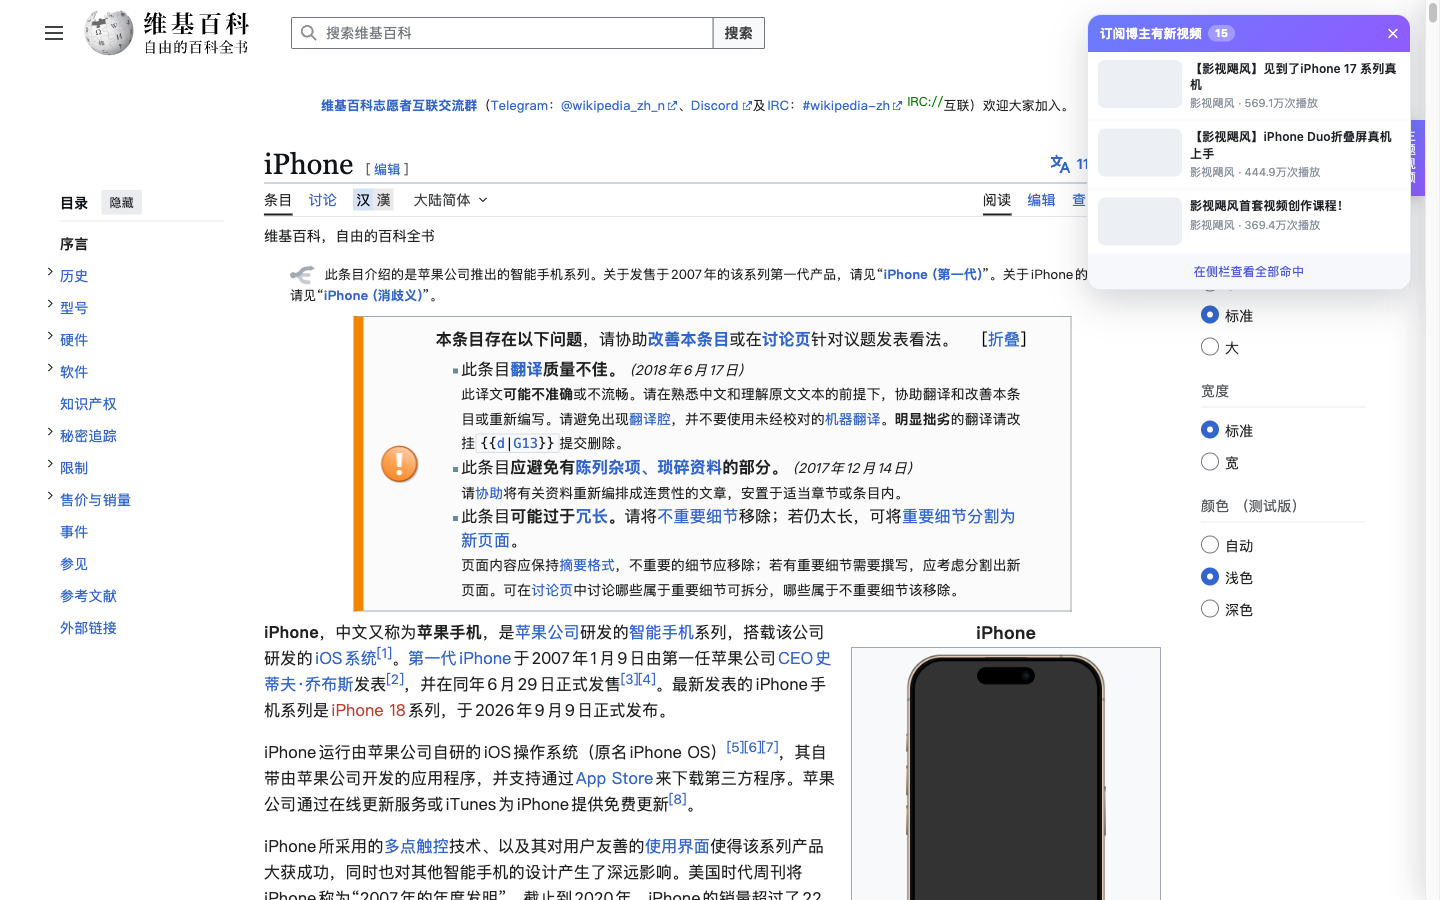
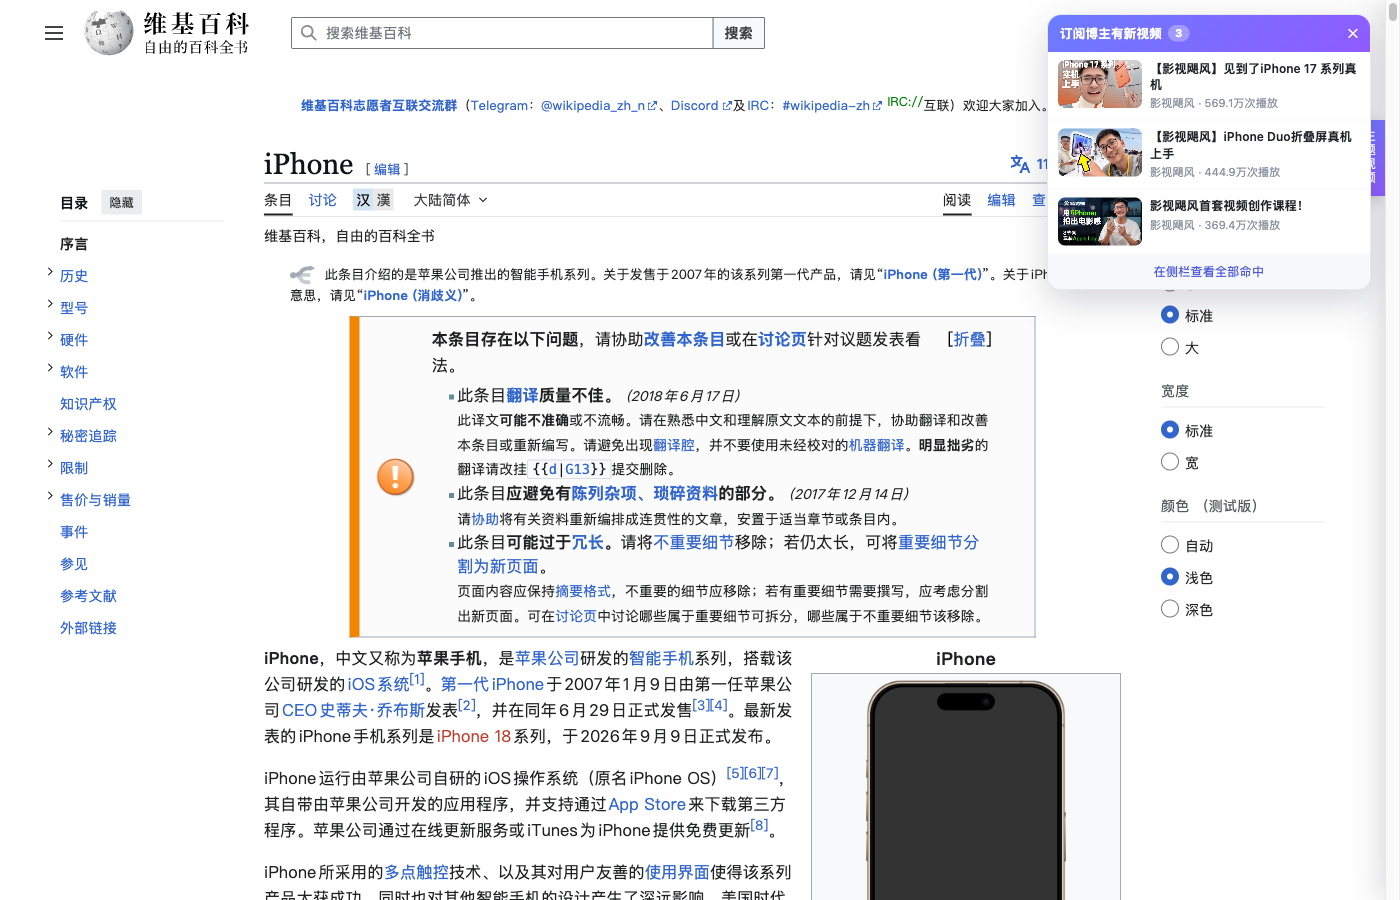
v1.2.0: sidebar no longer auto-opens; subscription hits show a top-right toast that auto-dismisses (hover pauses)

diff --git a/content.js b/content.js
@@ -278,13 +278,14 @@
   /* ==================== 侧栏 UI ==================== */
 
   const state = {
-    settings: { autoOpen: true, platform: 'both', order: 'views', limit: 12 },
+    settings: { autoOpen: false, platform: 'both', order: 'views', limit: 12 },
     topic: { keywords: [], query: '' },
     loading: false,
     error: null,
     results: [],
     subHits: [],
     notifyEnabled: true,
+    toastSeconds: 8,
     collapsed: false,
     hidden: false,
     width: 360,
@@ -695,10 +696,22 @@
     });
 
     const more = el('button', 'tv-toast-more', '在侧栏查看全部命中');
-    more.onclick = () => { hideToast(); setHidden(false); setCollapsed(false); };
+    more.onclick = () => { hideToast(); setHidden(false); setCollapsed(false); refresh(true); };
     toastBox.appendChild(more);
 
-    toastTimer = setTimeout(hideToast, 25000);
+    startToastTimer();
+  }
+
+  function startToastTimer() {
+    if (toastTimer) { clearTimeout(toastTimer); toastTimer = null; }
+    const secs = Number(state.toastSeconds) || 8;
+    toastTimer = setTimeout(hideToast, secs * 1000);
+    if (toastBox && !toastBox.dataset.hoverBound) {
+      toastBox.dataset.hoverBound = '1';
+      // 鼠标悬停时暂停倒计时，移开后重新开始，避免点不到
+      toastBox.addEventListener('mouseenter', () => { if (toastTimer) { clearTimeout(toastTimer); toastTimer = null; } });
+      toastBox.addEventListener('mouseleave', startToastTimer);
+    }
   }
 
   function hideToast() {
@@ -723,9 +736,13 @@
 
   async function init() {
     buildDom();
-    const cfg = await chrome.storage.sync.get({ autoOpen: true, platform: 'both', order: 'views', limit: 12, notifyEnabled: true });
+    const cfg = await chrome.storage.sync.get({
+      autoOpen: false, platform: 'both', order: 'views', limit: 12,
+      notifyEnabled: true, toastSeconds: 8
+    });
     state.settings = { ...state.settings, ...cfg };
     state.notifyEnabled = !!cfg.notifyEnabled;
+    state.toastSeconds = Number(cfg.toastSeconds) || 8;
     const local = await chrome.storage.local.get({ tvsHidden: false, tvsWidth: 360 });
     state.hidden = !!local.tvsHidden;
     state.width = local.tvsWidth || 360;
@@ -733,7 +750,10 @@
     state.topic = extractTopic();
     render();
 
-    launcher.onclick = () => { setHidden(false); setCollapsed(false); };
+    launcher.onclick = () => {
+      setHidden(false); setCollapsed(false);
+      if (!state.results.length) refresh(true);
+    };
 
     if (!state.hidden) {
       if (state.settings.autoOpen) {
@@ -747,13 +767,17 @@
 
     chrome.storage.onChanged.addListener((changes, area) => {
       if (area !== 'sync') return;
-      if (changes.notifyEnabled) state.notifyEnabled = !!changes.notifyEnabled.newValue;
+      if (changes.notifyEnabled) {
+        state.notifyEnabled = !!changes.notifyEnabled.newValue;
+        if (!state.notifyEnabled) hideToast();
+      }
+      if (changes.toastSeconds) state.toastSeconds = Number(changes.toastSeconds.newValue) || 8;
       const next = {};
       ['autoOpen', 'platform', 'order', 'limit'].forEach((k) => { if (changes[k]) next[k] = changes[k].newValue; });
       if (Object.keys(next).length) {
         state.settings = { ...state.settings, ...next };
         render();
-        if (!state.hidden) refresh(true);
+        if (!state.hidden && !state.collapsed) refresh(true);
       }
     });
 
@@ -779,7 +803,10 @@
       if (location.href !== state.lastUrl) {
         state.lastUrl = location.href;
         state.topic = extractTopic();
-        if (!state.hidden && state.settings.autoOpen) refresh(true);
+        render();
+        // 侧栏未展开时不请求视频列表，只做订阅命中提醒
+        if (!state.hidden && !state.collapsed) refresh(true);
+        else if (!state.hidden) checkSubscriptions();
       }
     }, 1500);
 

diff --git a/background.js b/background.js
@@ -694,18 +694,22 @@ chrome.runtime.onMessage.addListener((msg, _sender, sendResponse) => {
 
 chrome.runtime.onInstalled.addListener(() => {
   chrome.storage.sync.get({
-    autoOpen: true, platform: 'both', order: 'views', limit: 12,
-    youtubeApiKey: '', ytRegion: 'HK', subscriptions: [], notifyEnabled: true
+    autoOpen: false, platform: 'both', order: 'views', limit: 12,
+    youtubeApiKey: '', ytRegion: 'HK', subscriptions: [], notifyEnabled: true,
+    toastSeconds: 8, autoOpenMigrated: false
   }).then((cfg) => {
     chrome.storage.sync.set({
-      autoOpen: cfg.autoOpen,
+      // v1.2 起默认不再自动展开侧栏：只在订阅命中时弹右上角提醒
+      autoOpen: cfg.autoOpenMigrated ? cfg.autoOpen : false,
+      autoOpenMigrated: true,
       platform: cfg.platform,
       order: cfg.order,
       limit: cfg.limit,
       youtubeApiKey: cfg.youtubeApiKey,
       ytRegion: cfg.ytRegion,
       subscriptions: cfg.subscriptions,
-      notifyEnabled: cfg.notifyEnabled
+      notifyEnabled: cfg.notifyEnabled,
+      toastSeconds: cfg.toastSeconds
     });
   });
 });

diff --git a/options.html b/options.html
@@ -38,7 +38,15 @@
 
     <section>
       <div class="sec-t">提醒设置</div>
-      <label class="check"><input type="checkbox" id="notifyEnabled" /><span>侧栏未打开时，订阅博主命中当前主题就在页面右上角弹窗提醒</span></label>
+      <label class="check"><input type="checkbox" id="notifyEnabled" /><span>订阅博主命中当前主题时，在页面右上角弹窗提醒（默认只在命中时提醒，不自动展开侧栏）</span></label>
+      <div class="row"><label>提醒停留时长</label>
+        <select id="toastSeconds">
+          <option value="5">5 秒后自动消失</option>
+          <option value="8">8 秒后自动消失</option>
+          <option value="15">15 秒后自动消失</option>
+        </select>
+      </div>
+      <div class="hint">鼠标移到提醒上会暂停倒计时，方便点击视频</div>
       <button id="clearSeenBtn" class="ghost">清除提醒记录（7 天内已提醒过的视频不再重复弹）</button>
       <div id="seenTip" class="tip"></div>
     </section>

diff --git a/options.js b/options.js
@@ -18,10 +18,12 @@ const avatarColor = (name) => {
 
 async function load() {
   const cfg = await chrome.storage.sync.get({
-    subscriptions: [], notifyEnabled: true, platform: 'both', order: 'views', youtubeApiKey: '', autoOpen: true
+    subscriptions: [], notifyEnabled: true, platform: 'both', order: 'views',
+    youtubeApiKey: '', autoOpen: false, toastSeconds: 8
   });
   subs = cfg.subscriptions || [];
   $('notifyEnabled').checked = !!cfg.notifyEnabled;
+  $('toastSeconds').value = String(Number(cfg.toastSeconds) || 8);
   $('platform').value = cfg.platform;
   $('order').value = cfg.order;
   $('ytKey').value = cfg.youtubeApiKey || '';
@@ -179,6 +181,10 @@ $('addInput').addEventListener('keydown', (e) => { if (e.key === 'Enter') $('add
 
 $('notifyEnabled').onchange = () => {
   chrome.storage.sync.set({ notifyEnabled: $('notifyEnabled').checked });
+};
+
+$('toastSeconds').onchange = () => {
+  chrome.storage.sync.set({ toastSeconds: parseInt($('toastSeconds').value, 10) || 8 });
 };
 
 $('clearSeenBtn').onclick = async () => {

diff --git a/popup.js b/popup.js
@@ -1,6 +1,6 @@
 const $ = (id) => document.getElementById(id);
 const tip = $('tip');
-const DEFAULTS = { autoOpen: true, platform: 'both', order: 'views', limit: 12, youtubeApiKey: '', ytRegion: 'HK' };
+const DEFAULTS = { autoOpen: false, platform: 'both', order: 'views', limit: 12, youtubeApiKey: '', ytRegion: 'HK' };
 
 function showTip(text, isErr) {
   tip.textContent = text;

diff --git a/popup.html b/popup.html
@@ -45,7 +45,7 @@
 
   <label class="check">
     <input type="checkbox" id="autoOpen" />
-    <span>打开网页时自动显示侧栏</span>
+    <span>打开网页时自动显示侧栏（默认关闭：仅在订阅博主命中时才提醒）</span>
   </label>
 
   <div class="sec">

diff --git a/README.md b/README.md
@@ -2,7 +2,9 @@
 
 > 仓库地址：https://github.com/vvlife/topic-video-sidebar
 
-一个 Chrome 扩展（Manifest V3）：自动识别当前网页的主题，在页面右侧浮层侧栏中推荐相关的 **哔哩哔哩 / YouTube** 优质视频；支持**订阅博主**，命中主题时**右上角弹窗提醒**，点击即在新标签页打开视频。
+一个 Chrome 扩展（Manifest V3）：自动识别当前网页的主题，在页面右侧浮层侧栏中推荐相关的 **哔哩哔哩 / YouTube** 优质视频；支持**订阅博主**，命中主题时**右上角弹窗提醒**（几秒后自动消失），点击即在新标签页打开视频。
+
+> **v1.2 行为变更**：默认**不再自动展开侧栏**。平时只在右侧留一个「主题视频」竖条入口；只有当订阅博主命中当前页面主题时，才在右上角弹一条通知（默认 8 秒后自动消失，鼠标悬停会暂停倒计时），不打断浏览。想看完整推荐时点竖条 / `Alt+V` / 工具栏图标即可。也可以在设置里把「打开网页时自动显示侧栏」打开恢复旧行为。
 
 ![preview](preview/preview-wiki.png)
 
@@ -23,7 +25,7 @@
   - AI 科技：稚晖君、林亦LYi、GenJi、通往AGI之路、karpathy、3Blue1Brown、Two Minute Papers、Yannic Kilcher
   - 编程开发：CodeSheep、遇见狂神说、尚硅谷、Fireship、Traversy Media、Net Ninja、freeCodeCamp
   - 知识科普：李永乐老师、妈咪说、星球研究所、中国BOY、Veritasium、Kurzgesagt、Vsauce、Mark Rober
-- **右上角弹窗提醒**：侧栏收起/未打开时，只要订阅博主有命中当前页面主题的视频，右上角直接弹出提醒卡片，点击跳转；7 天内不重复打扰（可在设置清除记录）
+- **右上角弹窗提醒**：只要订阅博主有命中当前页面主题的视频，右上角弹出提醒卡片，点击跳转；**默认 8 秒后自动消失**（可设 5/8/15 秒，鼠标悬停暂停倒计时），7 天内不重复打扰（可在设置清除记录）
 - **命中逻辑**：B站按「博主名 + 主题」搜索后按作者过滤；YouTube 优先走频道内搜索 API，无 Key 时解析频道 RSS 最新视频做标题关键词匹配；结果缓存 30 分钟
 
 ### 其他
